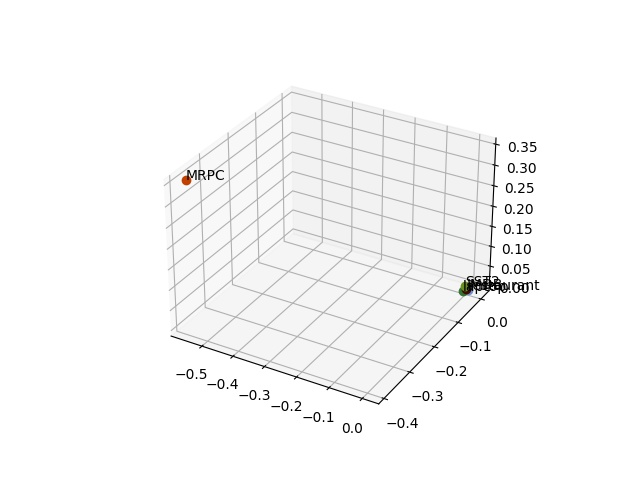
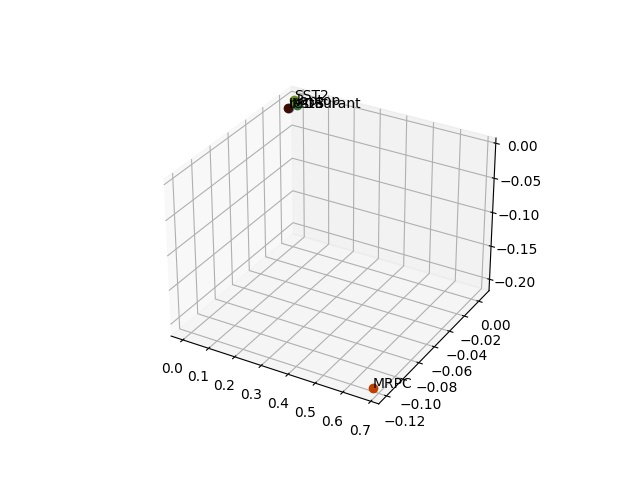
update

Changed region(s): [[0.25, 0.1875, 0.8438, 0.9062], [0.25, 0.75, 0.375, 0.8125]]

diff --git a/draw_cuda_mlmprompt.py b/draw_cuda_mlmprompt.py
@@ -77,7 +77,7 @@ def plot(x, y, **kwargs):
 
 #IMDB
 IMDB_ten = list()
-path="task_prompt_emb/IMDBPromptRoberta_mlm/task_prompt"
+path="task_prompt_emb/IMDBPromptRoberta/task_prompt"
 IMDB_ten = torch.load(path).view(76800).to("cpu")
 print(IMDB_ten.shape)
 #IMDB_ten = torch.stack([IMDB_ten for i in range(200)])
@@ -86,7 +86,7 @@ print(IMDB_ten.shape)
 
 #SST2
 sst2_ten = list()
-path="task_prompt_emb/SST2PromptRoberta_mlm/task_prompt"
+path="task_prompt_emb/SST2PromptRoberta/task_prompt"
 sst2_ten = torch.load(path).view(76800).to("cpu")
 print(sst2_ten.shape)
 #sst2_ten = torch.stack([sst2_ten for i in range(200)])
@@ -95,7 +95,7 @@ print(sst2_ten.shape)
 
 #laptop
 laptop_ten = list()
-path="task_prompt_emb/laptopPromptRoberta_mlm/task_prompt"
+path="task_prompt_emb/laptopPromptRoberta/task_prompt"
 laptop_ten = torch.load(path).view(76800).to("cpu")
 print(laptop_ten.shape)
 #laptop_ten = torch.stack([laptop_ten for i in range(200)])
@@ -104,7 +104,7 @@ print(laptop_ten.shape)
 
 #restaurant
 restaurant_ten = list()
-path="task_prompt_emb/restaurantPromptRoberta_mlm/task_prompt"
+path="task_prompt_emb/restaurantPromptRoberta/task_prompt"
 restaurant_ten = torch.load(path).view(76800).to("cpu")
 print(restaurant_ten.shape)
 #restaurant_ten = torch.stack([restaurant_ten for i in range(200)])
@@ -116,7 +116,7 @@ print(restaurant_ten.shape)
 
 #MRPC
 MRPC_ten = list()
-path="task_prompt_emb/MRPCPromptRoberta_mlm/task_prompt"
+path="task_prompt_emb/MRPCPromptRoberta/task_prompt"
 MRPC_ten = torch.load(path).view(76800).to("cpu")
 print(MRPC_ten.shape)
 #MRPC_ten = torch.stack([MRPC_ten for i in range(200)])
